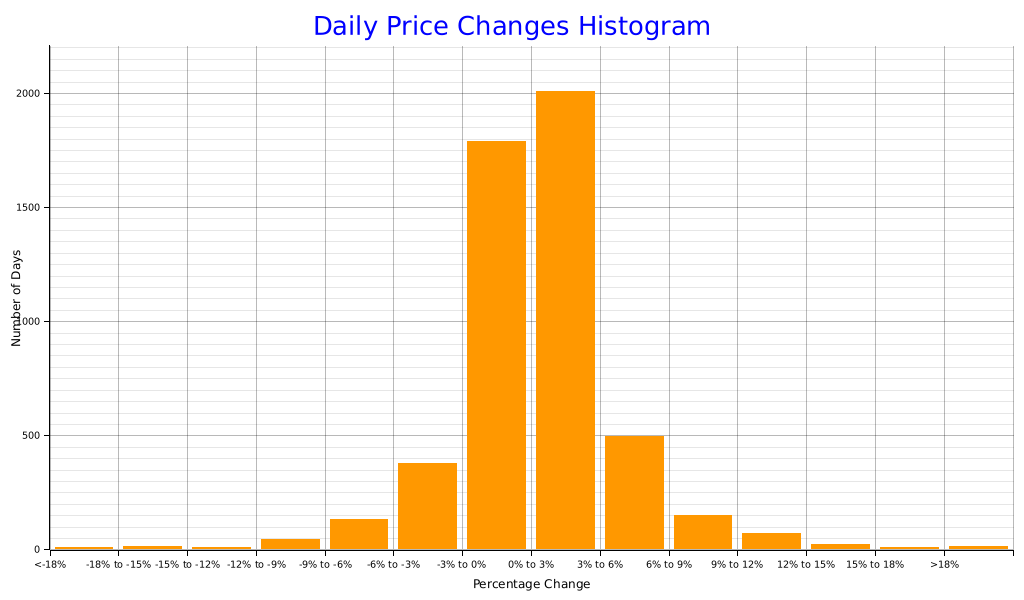
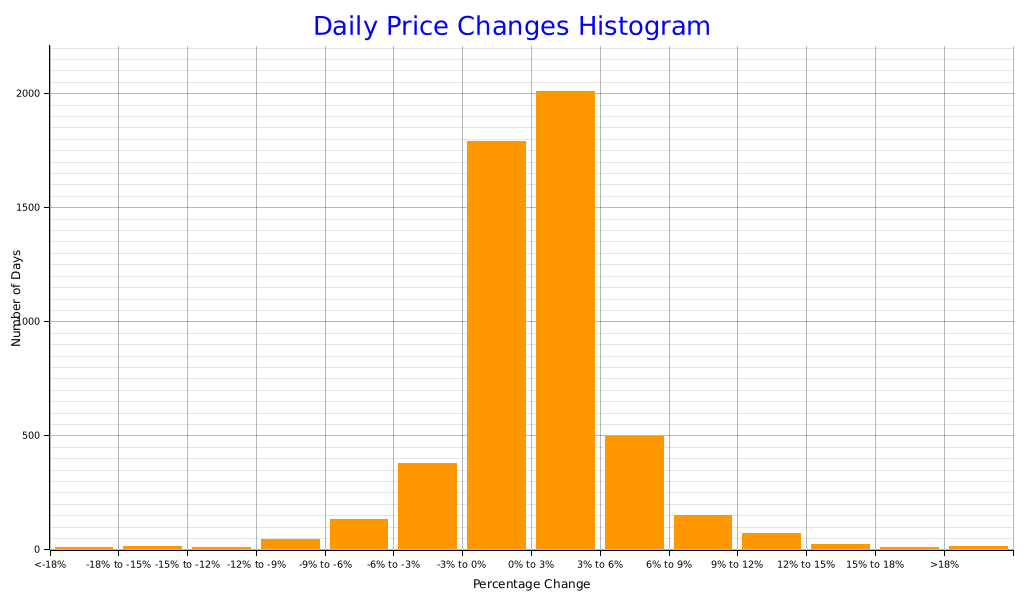
deploy: f2163d761afb89bcd055eb3b1c56ca82929363b8

diff --git a/index.html b/index.html
@@ -34,7 +34,7 @@
           <td>97,860.60</td>
           <td>87,231.57</td>
           <td></td>
-          <td>842,678,796,288.0</td>
+          <td>841,994,928,128.0</td>
         </tr>
         <tr>
           <td class='yearly-summary-year'>2025</td>
@@ -194,11 +194,11 @@
         </tr>
         <tr>
           <td>-3% to 0%</td>
-          <td>1790</td>
+          <td>1789</td>
         </tr>
         <tr>
           <td>0% to 3%</td>
-          <td>2007</td>
+          <td>2008</td>
         </tr>
         <tr>
           <td>3% to 6%</td>
@@ -235,7 +235,7 @@
     <br><br>
     <a href='https://github.com/bitcoin-tools/btracker'>Link to the report codebase</a>
     <br><br>
-    This report was last updated at 2026-01-22 19:05:01.242385849 UTC.
+    This report was last updated at 2026-01-22 19:36:41.529512404 UTC.
     <br><br>
     <div class='scrollable-table'>
       <table>
@@ -259,12 +259,12 @@
             <td>89,372.42</td>
             <td>90,202.32</td>
             <td>88,632.38</td>
-            <td>89,114.00</td>
-            <td class='wma-column'>57,642.14</td>
-            <td>32.25 (0.05 %)</td>
-            <td>45,153.07 (102.7 %)</td>
+            <td>89,537.52</td>
+            <td class='wma-column'>57,642.44</td>
+            <td>32.55 (0.05 %)</td>
+            <td>45,576.58 (103.6 %)</td>
             <td>1,569.94 (1.7 %)</td>
-            <td>-262.95 (0.2 %)</td>
+            <td>160.56 (0.1 %)</td>
           </tr>
           <tr>
             <td>2026-01-21</td>
